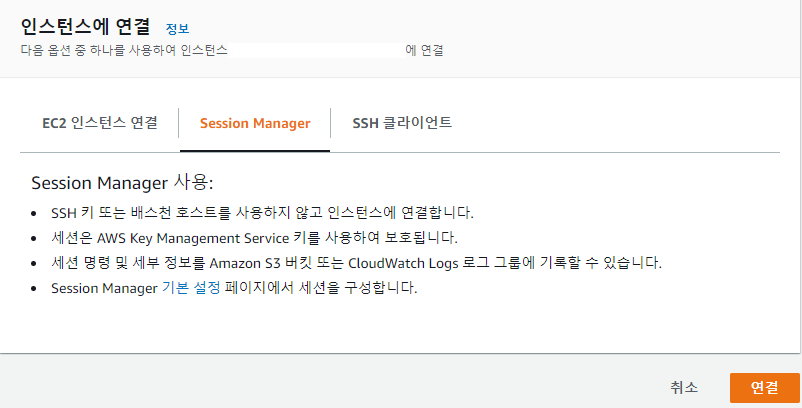
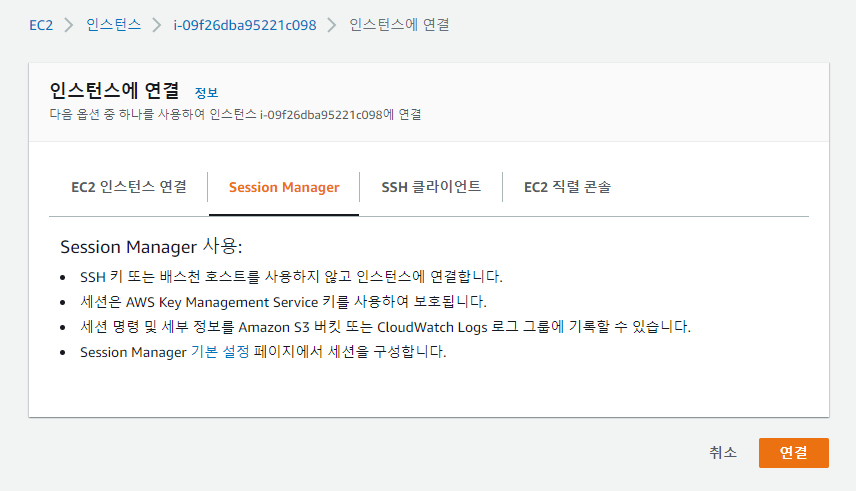
AWS SSM 에이전트로 프라이빗 EC2 인스턴스에 연결하기

diff --git a/source/_posts/connect-private-ec2-instance-using-ssm-agent.md b/source/_posts/connect-private-ec2-instance-using-ssm-agent.md
@@ -6,50 +6,70 @@ tags:
 - SSM Agent
 ---
 
-안녕하세요 Mambo입니다. 터미널에서 외부 호스트에 접근하기 위해서 `SSH(Secure Shell)`을 주로 사용합니다. AWS의 EC2 인스턴스를 생성할 때 발급된 PEM 파일과 함께 [SSH를 사용하여 Linux 인스턴스에 연결](https://docs.aws.amazon.com/ko_kr/AWSEC2/latest/UserGuide/AccessingInstancesLinux.html) 문서를 참고하여 인스턴스에 연결할 수 있습니다.
+`2021년 2월 19일에 공유한 AWS SSM 에이전트로 프라이빗 EC2 인스턴스에 연결하기를 토대로 부족한 정보를 추가한 글입니다.`
 
-다만, SSH 클라이언트로 EC2 인스턴스에 접근하기 위해서는 인스턴스가 퍼블릭 DNS 또는 퍼블릭 IP 주소를 가져야합니다. 그래서 프라이빗 네트워크 환경에 존재하는 EC2에 접근하기 위해서는 `배스천(Bastion) 호스트`라고하는 일종의 게이트웨이 인스턴스를 퍼블릭 환경에 생성한 후 SSH 클라이언트로 배스천 호스트를 경유해서 프라이빗 EC2에 접근해야합니다.
+안녕하세요 Mambo입니다. 
 
-또한, SSH 접근을 위해 EC2 인스턴스에 대한 PEM 파일에 대한 관리를 수행해야합니다. 결국 이 PEM 파일은 서로에게 공유되며 어디서 PEM 파일이 누군가에 의해 탈취되었는지 모르는 상황이 발생할 수 있습니다. 
+오늘은 아마존 웹 서비스의 SSM(System Session Manager)를 사용하여 프라이빗 서브넷에서 구동되고 있는 EC2 인스턴스에 연결하는 방법에 대해서 알아보고자 합니다.
 
-AWS는 이러한 SSH에 대한 단점을 보완하기 위하여 `AWS Systems Manager`를 사용해서 EC2를 관리형 인스턴스로 등록한 후 SSH와 PEM 파일이 없어도 인스턴스에 접근할 수 있도록 [`SSM 에이전트`](https://docs.aws.amazon.com/ko_kr/systems-manager/latest/userguide/sysman-install-ssm-agent.html) 기능을 제공합니다. 
+일반적으로 로컬 환경과 같은 외부 호스트에서 서버 인스턴스에 접근하기 위해서 `SSH(Secure Shell)`을 사용합니다. 그러나 SSH 클라이언트를 사용하여 EC2 인스턴스에 접근하기 위해서는 **퍼블릭 DNS 또는 퍼블릭 IP 주소를 가지는** 퍼블릭 인스턴스이어야 합니다. 인터넷과 연결되지 않는 프라이빗 서브넷에 위치하는 프라이빗 EC2 인스턴스에 접근하기 위해서는 퍼블릭 IP가 할당된 퍼블릭 인스턴스를 `배스천(Bastion) 호스트`로써 사용하여 경유해야합니다. 이렇게 배스천 호스트를 구성하는 것은 불필요하게 인스턴스를 유지하는 문제도 있으며 SSH 접속을 위한 개인키가 인터넷과 연결된 퍼블릭 EC2 인스턴스에 위치하게 되는 단점을 보유하게 됩니다.
 
-## AWS Systems Manager 관리형 인스턴스 활성화
-EC2 인스턴스를 AWS 시스템 매니저에 관리형 인스턴스로 등록하기 위해서 `빠른 설정`을 통해 시스템 매니저가 EC2 인스턴스 관리를 위한 IAM 역할을 생성하고 등록할 수 있습니다.
+아마존 웹 서비스에서는 배스천 호스트를 담당하도록 구성하는 퍼블릭 인스턴스의 단점을 보완하기 위하여 SSH와 개인키를 사용하지 않고도 HTTPS를 사용하여 인터넷과 연결되지 않은 프라이빗 서브넷에 접근할 수 있도록 **AWS Systems Manager**를 제공합니다. AWS Systems Manager가 [SSM 에이전트](https://docs.aws.amazon.com/ko_kr/systems-manager/latest/userguide/sysman-install-ssm-agent.html)가 설치된 EC2 인스턴스를 관리형 인스턴스로 등록함으로써 IAM과 SSM 에이전트를 사용하여 관리형 인스턴스로 접속할 수 있습니다.
+
+## AWS Systems Manager 
+AWS Systems Manager가 EC2 인스턴스를 관리형 인스턴스로 등록하도록 구성하기 위해서는 몇가지 설정을 해야합니다.
+
+### 호스트 관리 기능 활성화
+AWS Systems Manager의 빠른 설정을 통해 Host Management 구성을 사용하여 EC2 인스턴스를 관리형 인스턴스로 등록하기 위한 작업을 활성화 할 수 있습니다.
 
 ![](/images/posts/connect-private-ec2-instance/aws-ssm-quick-setup.png)
 
-> 2021년 2월 19일 현재까지 호스트 관리 기능만 제공합니다.
+### SSM 에이전트를 위한 VPC 엔드포인트 구성
+호스트 관리 구성을 통해 활성화된 SSM 서비스가 VPC 내 프라이빗 서브넷에 접근할 수 있도록 AWS PrivateLink로 구동되는 [VPC 인터페이스 엔드포인트](https://docs.aws.amazon.com/vpc/latest/privatelink/vpc-endpoints.html)를 구성해야합니다.
 
-![](/images/posts/connect-private-ec2-instance/aws-ssm-systems-manager-managed-instances.png)
+#### VPC DNS 호스트 이름 활성화
+VPC 엔드포인트를 생성하기 위해서는 VPC 속성 중 **DNS 호스트 이름을 활성화**해야합니다.
 
-### EC2 인스턴스 SSM 에이전트
-AWS 시스템 매니저를 통해 EC2 인스턴스에 접근하기 위해서는 해당 인스턴스 내에 SSM 에이전트가 설치되어있어야합니다. 
+![](/images/posts/connect-private-ec2-instance/aws-ssm-enable-dns-name.png)
 
-**SSM 에이전트 사전 설치 AMI 목록**
-- Amazon Linux
-- Amazon Linux 2
-- Amazon Linux 2 ECS-Optimized AMIs
-- Ubuntu Server 16.04, 18.04, and 20.04
+#### VPC 엔드포인트 생성
+EC2와 SSM 서비스에 대한 VPC 엔드포인트를 생성합니다.
 
-> 모든 AMI에서 SSM 에이전트를 기본적으로 제공하지 않으므로 [수동](https://docs.aws.amazon.com/ko_kr/systems-manager/latest/userguide/sysman-manual-agent-install.html)으로 설치해야할 수 있어요.
+![](/images/posts/connect-private-ec2-instance/aws-ssm-vpc-endpoints.png)
 
-### EC2 인스턴스 IAM 역할 지정
-AWS 시스템 매니저의 빠른 설정을 수행하면 `AmazonSSMRoleForInstancesQuickSetup` IAM 역할이 생성됩니다. EC2 인스턴스에 대해 이 IAM 역할을 지정하면 SSM 에이전트를 통해 인스턴스에 접근할 수 있는 권한을 부여되고 세션 매니저가 활성화 됩니다.
+### EC2 인스턴스 프로파일 지정
+빠른 설정을 통해 호스트 관리 기능을 활성화하면 **AmazonSSMRoleForInstancesQuickSetup**이라는 IAM 역할이 생성됩니다. EC2 인스턴스에 대해 AmazonSSMRoleForInstancesQuickSetup IAM 역할을 지정하면 AWS Systems Manager가 SSM 에이전트와 통신하여 관리형 인스턴스로 등록됩니다.
+
+만약, AmazonSSMRoleForInstancesQuickSetup이 자동으로 생성되지 않는다면 AmazonSSMManagedInstanceCore 정책을 지정한 IAM 역할을 직접 생성하시면 됩니다.
+
+![](/images/posts/connect-private-ec2-instance/aws-ssm-managed-instance-core-policy.png)
+
+#### IAM 역할
+IAM 역할이 지정되지 않은 인스턴스는 다음과 같이 SSM 에이전트를 통해 연결할 수 없습니다.
 
 ![IAM 역할이 지정되지 않은 인스턴스](/images/posts/connect-private-ec2-instance/aws-ssm-connect-instance-console-failed.png)
 
-위 AmazonSSMRoleForInstancesQuickSetup IAM 역할이 없으므로 SSM 에이전트로 인스턴스에 연결할 수 없습니다. 아래와 같이 
-
-![](/images/posts/connect-private-ec2-instance/aws-ssm-instance-modify-iam-role.png)
+AmazonSSMRoleForInstancesQuickSetup 역할을 지정해봅니다.
 
 ![](/images/posts/connect-private-ec2-instance/aws-ssm-set-iam-role.png)
 
-> 이제 AWS 시스템 매니저가 EC2 인스턴스를 관리형 인스턴스로 등록할거에요.
+#### HTTPS 인바운드 트래픽 허용
+AmazonSSMRoleForInstancesQuickSetup 역할을 지정하더라도 VPC를 구성하는 프라이빗 네트워크 주소 범위에 대하여 HTTPS 트래픽을 허용해야합니다.
 
-![관리형 인스턴스 활성화](/images/posts/connect-private-ec2-instance/aws-ssm-connect-instance-console.png)
+![](/images/posts/connect-private-ec2-instance/aws-ssm-https-inbound-trafic.png)
 
-이제 EC2 인스턴스에 세션 매니저로 연결을 수행하거나 시스템 매니저에서 관리형 인스턴스에 세션을 연결할 수 있습니다.
+#### Session Manager 활성화
+SSM 에이전트 통신이 성공적으로 이루어진 경우 EC2 콘솔을 통해 Session Manager를 사용하여 프라이빗 인스턴스에 연결할 수 있습니다.
+
+![](/images/posts/connect-private-ec2-instance/aws-ssm-connect-instance-console.png)
+
+### 관리형 인스턴스 검토
+관리형 인스턴스는 Systems Manager와 함께 사용하도록 구성된 EC2 인스턴스입니다. EC2 인스턴스를 관리형 인스턴스로 등록하기 위해서는 다음의 조건이 충족되어야 합니다. 
+
+- SSM 에이전트 설치 : EC2 인스턴스에 SSM 에이전트가 설치되어있어야 합니다.
+- SSM 엔드포인트 연결 : SSM 서비스가 SSM 에이전트로 통신할 수 있어야 합니다.
+- SSM IAM 역할 연결 : AmazonSSMManagedInstanceCore 정책을 포함하는 IAM 역할을 연결해야합니다.
+
 
 ## AWS SSM CLI
 로컬 호스트에서 SSM 에이전트가 설치된 EC2 인스턴스에 접근하기 위해서 AWS CLI의 SSM 명령어를 사용할 수 있습니다.
@@ -63,12 +83,6 @@ AWS 시스템 매니저의 빠른 설정을 수행하면 `AmazonSSMRoleForInstan
 AWS CLI을 사용하기 위하여 `AmazonSSMManagedInstanceCore` 정책이 부여된 크레덴셜을 프로파일로 등록합니다.
 
 ![](/images/posts/connect-private-ec2-instance/aws-ssm-configure-aws-cli-profile.png)
-
-#### AmazonSSMManagedInstanceCore 정책
-
-![](/images/posts/connect-private-ec2-instance/aws-ssm-iam-role-AmazonSSMRoleForInstancesQuickSetup.png)
-
-> AmazonEC2RoleforSSM 정책은 Deprecated 되었어요!
 
 ### SSM 세션 시작하기
 AWS SSM CLI의 `start-session` 명령어로 관리형 인스턴스에 대한 세션을 시작할 수 있습니다.
